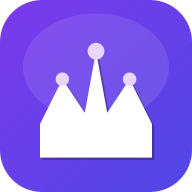
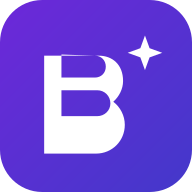
feat: rebrand Hera → Bellefy com novo icone B+sparkle moderno

diff --git a/src/components/brand/BrandLogo.tsx b/src/components/brand/BrandLogo.tsx
@@ -1,8 +1,8 @@
 import { cn } from "@/lib/utils";
 
-// ─── Hera Icon ────────────────────────────────────────────────────────────────
-// Coroa de três pontas — lê como poder (Hera, rainha do Olimpo) e
-// como beleza (salão de luxo). Legível de 14 px até 512 px.
+// ─── Bellefy Icon ─────────────────────────────────────────────────────────────
+// Letra "B" estilizada com acento de estrela — moderna, elegante, funciona
+// de 12 px até 512 px. Export mantido como HeraIcon para compatibilidade.
 
 export function HeraIcon({
   className,
@@ -20,15 +20,16 @@ export function HeraIcon({
       className={className}
       aria-hidden
     >
-      {/* Corpo da coroa */}
-      <path d="M2,23 H22 V17 L18,9 L14,15 L12,4 L10,15 L6,9 L2,17 Z" />
-      {/* Gemas nas pontas */}
-      <circle cx="12" cy="4"  r="1.5" />
-      <circle cx="6"  cy="9"  r="1.2" />
-      <circle cx="18" cy="9"  r="1.2" />
+      {/* Letter B — bold geometric */}
+      <path d="M4 3v18h9.5c2.5 0 4.5-2 4.5-4.5 0-1.5-.7-2.8-1.9-3.6 1-.8 1.6-2 1.6-3.2C17.2 7.4 15.4 5.8 13.2 5.8L4 3zm3 2.5 5.5.3c1 0 1.7.8 1.7 1.7 0 1-.8 1.7-1.7 1.7H7V5.5zm0 5.5h6c1.2 0 2.1.9 2.1 2.1 0 1.1-.9 2-2.1 2H7V11z" />
+      {/* Sparkle accent top-right */}
+      <path d="M21 2l.65 1.6L23.3 4.25l-1.65.65L21 6.5l-.65-1.6L18.7 4.25l1.65-.65Z" />
     </svg>
   );
 }
+
+// Alias for files that import BellefyIcon directly
+export { HeraIcon as BellefyIcon };
 
 // ─── Logo container (icon + wordmark) ────────────────────────────────────────
 
@@ -71,7 +72,7 @@ export function BrandLogo({
             theme === "dark" ? "text-white" : "text-gray-900",
           )}
         >
-          Hera
+          Bellefy
         </p>
         <p
           className={cn(

diff --git a/src/app/(auth)/login/page.tsx b/src/app/(auth)/login/page.tsx
@@ -3,7 +3,7 @@
 import { useState } from "react";
 import Link from "next/link";
 import { LoginForm } from "@/components/auth/LoginForm";
-import { HeraIcon } from "@/components/brand/BrandLogo";
+import { BellefyIcon } from "@/components/brand/BrandLogo";
 import { CalendarDays, Scissors, ChevronRight } from "lucide-react";
 
 export default function LoginPage() {
@@ -34,7 +34,7 @@ export default function LoginPage() {
 
       {/* Watermark */}
       <div className="pointer-events-none absolute right-0 top-1/2 -translate-y-1/2 opacity-[0.025] select-none">
-        <HeraIcon size={480} className="text-violet-300" />
+        <BellefyIcon size={480} className="text-violet-300" />
       </div>
 
       {/* ── Content ── */}
@@ -54,7 +54,7 @@ export default function LoginPage() {
                 boxShadow: "0 0 0 1px rgba(124,58,237,.4), 0 0 0 5px rgba(124,58,237,.1), 0 16px 48px rgba(124,58,237,.55)",
               }}
             >
-              <HeraIcon size={30} className="text-white" />
+              <BellefyIcon size={30} className="text-white" />
             </div>
           </div>
 
@@ -68,7 +68,7 @@ export default function LoginPage() {
                 WebkitTextFillColor: "transparent",
               }}
             >
-              Hera
+              Bellefy
             </p>
             <p className="text-zinc-500 text-[11px] font-black uppercase tracking-[.22em] mt-1.5">
               Gestão de Salões
@@ -161,7 +161,7 @@ export default function LoginPage() {
 
         {/* Footer */}
         <p className="text-zinc-700 text-[11px] text-center leading-relaxed">
-          <span className="text-zinc-500 font-semibold">Hera</span>
+          <span className="text-zinc-500 font-semibold">Bellefy</span>
           {" · "}Gestão de Salões
         </p>
       </div>

diff --git a/src/lib/whatsapp.ts b/src/lib/whatsapp.ts
@@ -38,9 +38,9 @@ export async function sendWhatsApp(phone: string, message: string): Promise<bool
 }
 
 export function msgVencimentoProximo(salonName: string, dias: number, valor: string) {
-  return `Olá! 👋\n\nSeu plano *Hera* para o salão *${salonName}* vence em *${dias} dia${dias > 1 ? "s" : ""}*.\n\n💰 Valor: *R$ ${valor}*\n\nEvite o bloqueio automático realizando o pagamento. Em caso de dúvidas, entre em contato.\n\n_Hera — Controle Total de Salões_`;
+  return `Olá! 👋\n\nSeu plano *Bellefy* para o salão *${salonName}* vence em *${dias} dia${dias > 1 ? "s" : ""}*.\n\n💰 Valor: *R$ ${valor}*\n\nEvite o bloqueio automático realizando o pagamento. Em caso de dúvidas, entre em contato.\n\n_Bellefy — Controle Total de Salões_`;
 }
 
 export function msgVencido(salonName: string, diasAtraso: number, valor: string) {
-  return `⚠ Pagamento em atraso!\n\nSeu plano *Hera* para *${salonName}* está vencido há *${diasAtraso} dia${diasAtraso > 1 ? "s" : ""}*.\n\n💰 Valor: *R$ ${valor}*\n\n${diasAtraso >= 5 ? "🔒 Seu acesso foi *bloqueado automaticamente*." : `⏳ O acesso será bloqueado em *${5 - diasAtraso} dia${5 - diasAtraso > 1 ? "s" : ""}* se não houver pagamento.`}\n\nRegularize agora para não perder o acesso.\n\n_Hera_`;
+  return `⚠ Pagamento em atraso!\n\nSeu plano *Bellefy* para *${salonName}* está vencido há *${diasAtraso} dia${diasAtraso > 1 ? "s" : ""}*.\n\n💰 Valor: *R$ ${valor}*\n\n${diasAtraso >= 5 ? "🔒 Seu acesso foi *bloqueado automaticamente*." : `⏳ O acesso será bloqueado em *${5 - diasAtraso} dia${5 - diasAtraso > 1 ? "s" : ""}* se não houver pagamento.`}\n\nRegularize agora para não perder o acesso.\n\n_Bellefy_`;
 }

diff --git a/src/app/api/auth/esqueci-senha/route.ts b/src/app/api/auth/esqueci-senha/route.ts
@@ -64,7 +64,7 @@ export async function POST(req: NextRequest) {
       await resend.emails.send({
         from: process.env.RESEND_FROM ?? "noreply@hera.com.br",
         to: email,
-        subject: "Redefinição de senha — Hera",
+        subject: "Redefinição de senha — Bellefy",
         html: buildEmailHtml(user.name, resetUrl),
       });
     } catch (err) {
@@ -95,7 +95,7 @@ function buildEmailHtml(name: string, resetUrl: string): string {
           <span style="color:white;font-size:18px">✂</span>
         </div>
         <div>
-          <p style="margin:0;color:white;font-weight:900;font-size:15px">Hera</p>
+          <p style="margin:0;color:white;font-weight:900;font-size:15px">Bellefy</p>
           <p style="margin:0;color:#7c3aed;font-size:10px;letter-spacing:.1em;text-transform:uppercase">Controle Total de Salões</p>
         </div>
       </div>
@@ -121,7 +121,7 @@ function buildEmailHtml(name: string, resetUrl: string): string {
     <!-- Footer -->
     <div style="padding:20px 40px;border-top:1px solid #f3f4f6">
       <p style="margin:0;color:#d1d5db;font-size:11px;text-align:center">
-        © ${new Date().getFullYear()} Hera · Todos os direitos reservados
+        © ${new Date().getFullYear()} Bellefy · Todos os direitos reservados
       </p>
     </div>
   </div>

diff --git a/src/components/layout/DashboardShell.tsx b/src/components/layout/DashboardShell.tsx
@@ -5,7 +5,7 @@ import { useQuery } from "@tanstack/react-query";
 import { useSession } from "next-auth/react";
 import { Sidebar } from "./Sidebar";
 import { Menu } from "lucide-react";
-import { HeraIcon } from "@/components/brand/BrandLogo";
+import { BellefyIcon } from "@/components/brand/BrandLogo";
 import { Sheet, SheetContent } from "@/components/ui/sheet";
 
 export function DashboardShell({ children }: { children: React.ReactNode }) {
@@ -61,13 +61,13 @@ export function DashboardShell({ children }: { children: React.ReactNode }) {
             >
               {salonLogo ? (
                 // eslint-disable-next-line @next/next/no-img-element
-                <img src={salonLogo} alt={salonName ?? "Hera"} className="w-full h-full object-cover" />
+                <img src={salonLogo} alt={salonName ?? "Bellefy"} className="w-full h-full object-cover" />
               ) : (
-                <HeraIcon size={14} className="text-white" />
+                <BellefyIcon size={14} className="text-white" />
               )}
             </div>
             <span className="font-black text-white text-sm tracking-tight">
-              {salonName ?? "Hera"}
+              {salonName ?? "Bellefy"}
             </span>
           </div>
         </header>

diff --git a/src/app/master/layout.tsx b/src/app/master/layout.tsx
@@ -4,7 +4,7 @@ import { useState } from "react";
 import { MasterSidebar } from "@/components/master/MasterSidebar";
 import { Sheet, SheetContent } from "@/components/ui/sheet";
 import { Menu } from "lucide-react";
-import { HeraIcon } from "@/components/brand/BrandLogo";
+import { BellefyIcon } from "@/components/brand/BrandLogo";
 
 export default function MasterLayout({ children }: { children: React.ReactNode }) {
   const [mobileOpen, setMobileOpen] = useState(false);
@@ -41,10 +41,10 @@ export default function MasterLayout({ children }: { children: React.ReactNode }
               className="w-7 h-7 rounded-lg flex items-center justify-center"
               style={{ background: "linear-gradient(135deg,#7c3aed,#4f46e5)" }}
             >
-              <HeraIcon size={14} className="text-white" />
+              <BellefyIcon size={14} className="text-white" />
             </div>
             <div>
-              <span className="font-black text-white text-sm tracking-tight">Hera</span>
+              <span className="font-black text-white text-sm tracking-tight">Bellefy</span>
               <span className="text-[10px] text-violet-400 font-semibold ml-2">Master</span>
             </div>
           </div>

diff --git a/src/app/(auth)/registro/page.tsx b/src/app/(auth)/registro/page.tsx
@@ -4,7 +4,7 @@ import { RegistroForm } from "@/components/auth/RegistroForm";
 import { BrandPanel } from "@/components/brand/BrandPanel";
 import { BrandLogo } from "@/components/brand/BrandLogo";
 
-export const metadata: Metadata = { title: "Criar Conta — Hera" };
+export const metadata: Metadata = { title: "Criar Conta — Bellefy" };
 
 export default function RegistroPage() {
   return (
@@ -24,7 +24,7 @@ export default function RegistroPage() {
         <div className="w-full max-w-sm mx-auto">
           <div className="mb-8">
             <p className="text-xs font-black uppercase tracking-widest text-violet-500 mb-2">
-              Hera
+              Bellefy
             </p>
             <h2 className="text-[2rem] font-black text-gray-900 tracking-tight leading-tight">
               Crie sua conta
@@ -44,7 +44,7 @@ export default function RegistroPage() {
           </p>
 
           <p className="text-center text-[11px] text-gray-300 mt-8">
-            © {new Date().getFullYear()} Hera · Todos os direitos reservados
+            © {new Date().getFullYear()} Bellefy · Todos os direitos reservados
           </p>
         </div>
       </div>

diff --git a/src/components/master/SalonSelector.tsx b/src/components/master/SalonSelector.tsx
@@ -5,7 +5,7 @@ import { useRouter } from "next/navigation";
 import { useQuery } from "@tanstack/react-query";
 import { toast } from "sonner";
 import { Plus, ArrowRight, Loader2, Building2, Check } from "lucide-react";
-import { HeraIcon } from "@/components/brand/BrandLogo";
+import { BellefyIcon } from "@/components/brand/BrandLogo";
 
 interface SalonItem {
   id: string;
@@ -85,11 +85,11 @@ export function SalonSelector() {
             boxShadow: "0 0 0 1px rgba(124,58,237,.3),0 4px 20px rgba(124,58,237,.45)",
           }}
         >
-          <HeraIcon size={20} className="text-white" />
+          <BellefyIcon size={20} className="text-white" />
         </div>
         <div>
-          <p className="text-white font-black text-sm leading-tight">Hera</p>
-          <p className="text-violet-400/60 text-[10px] font-semibold tracking-widest uppercase">Hera · Painel Master</p>
+          <p className="text-white font-black text-sm leading-tight">Bellefy</p>
+          <p className="text-violet-400/60 text-[10px] font-semibold tracking-widest uppercase">Bellefy · Painel Master</p>
         </div>
       </div>
 

diff --git a/src/app/redefinir-senha/[token]/page.tsx b/src/app/redefinir-senha/[token]/page.tsx
@@ -2,7 +2,7 @@ import type { Metadata } from "next";
 import Link from "next/link";
 import { RedefinirSenhaForm } from "@/components/auth/RedefinirSenhaForm";
 
-export const metadata: Metadata = { title: "Redefinir senha — Hera" };
+export const metadata: Metadata = { title: "Redefinir senha — Bellefy" };
 
 interface Props {
   params: Promise<{ token: string }>;
@@ -58,7 +58,7 @@ export default async function RedefinirSenhaPage({ params }: Props) {
               </div>
               <Link href="/login">
                 <span className="font-black text-gray-900 text-sm tracking-tight hover:text-violet-700 transition-colors">
-                  Hera
+                  Bellefy
                 </span>
               </Link>
             </div>
@@ -78,7 +78,7 @@ export default async function RedefinirSenhaPage({ params }: Props) {
         </div>
 
         <p className="text-center text-[11px] text-zinc-600 mt-6">
-          © {new Date().getFullYear()} Hera · Todos os direitos reservados
+          © {new Date().getFullYear()} Bellefy · Todos os direitos reservados
         </p>
       </div>
     </div>

diff --git a/src/app/agendar/entrar/page.tsx b/src/app/agendar/entrar/page.tsx
@@ -3,9 +3,9 @@ import { auth } from "@/lib/auth";
 import { redirect } from "next/navigation";
 import { prisma } from "@/lib/prisma";
 import { ClienteAuthForm } from "@/components/agendar/ClienteAuthForm";
-import { HeraIcon } from "@/components/brand/BrandLogo";
+import { BellefyIcon } from "@/components/brand/BrandLogo";
 
-export const metadata: Metadata = { title: "Entrar para Agendar — Hera" };
+export const metadata: Metadata = { title: "Entrar para Agendar — Bellefy" };
 
 export default async function AgendarEntrarPage() {
   const session = await auth();
@@ -61,10 +61,10 @@ export default async function AgendarEntrarPage() {
             className="w-6 h-6 rounded-lg flex items-center justify-center"
             style={{ background: "rgba(255,255,255,0.15)" }}
           >
-            <HeraIcon size={12} className="text-white" />
+            <BellefyIcon size={12} className="text-white" />
           </div>
           <p className="text-white/30 text-xs font-semibold tracking-wide">
-            Hera · Gestão de Salões
+            Bellefy · Gestão de Salões
           </p>
         </div>
 

diff --git a/src/components/layout/Sidebar.tsx b/src/components/layout/Sidebar.tsx
@@ -27,7 +27,7 @@ import {
   Download,
 } from "lucide-react";
 import { SalonSwitcher } from "@/components/shared/SalonSwitcher";
-import { HeraIcon } from "@/components/brand/BrandLogo";
+import { BellefyIcon } from "@/components/brand/BrandLogo";
 
 type NavItem = {
   href: string;
@@ -92,7 +92,7 @@ export function Sidebar({ onClose }: { onClose?: () => void }) {
     staleTime: 60_000,
     enabled: role === "OWNER" || role === "BARBER",
   });
-  const salonName = configData?.name ?? "Hera";
+  const salonName = configData?.name ?? "Bellefy";
   const salonLogo = configData?.logoUrl as string | undefined;
 
   // PWA install
@@ -131,7 +131,7 @@ export function Sidebar({ onClose }: { onClose?: () => void }) {
               // eslint-disable-next-line @next/next/no-img-element
               <img src={salonLogo} alt={salonName} className="w-full h-full object-cover" />
             ) : (
-              <HeraIcon size={18} className="text-white" />
+              <BellefyIcon size={18} className="text-white" />
             )}
           </div>
           <div className="min-w-0 flex-1">

diff --git a/src/app/(auth)/esqueci-senha/page.tsx b/src/app/(auth)/esqueci-senha/page.tsx
@@ -2,7 +2,7 @@ import type { Metadata } from "next";
 import Link from "next/link";
 import { EsqueciSenhaForm } from "@/components/auth/EsqueciSenhaForm";
 
-export const metadata: Metadata = { title: "Esqueci minha senha — Hera" };
+export const metadata: Metadata = { title: "Esqueci minha senha — Bellefy" };
 
 export default function EsqueciSenhaPage() {
   return (
@@ -39,7 +39,7 @@ export default function EsqueciSenhaPage() {
               </div>
               <Link href="/login">
                 <span className="font-black text-gray-900 text-sm tracking-tight hover:text-violet-700 transition-colors">
-                  Hera
+                  Bellefy
                 </span>
               </Link>
             </div>
@@ -57,7 +57,7 @@ export default function EsqueciSenhaPage() {
         </div>
 
         <p className="text-center text-[11px] text-zinc-600 mt-6">
-          © {new Date().getFullYear()} Hera · Todos os direitos reservados
+          © {new Date().getFullYear()} Bellefy · Todos os direitos reservados
         </p>
       </div>
     </div>
